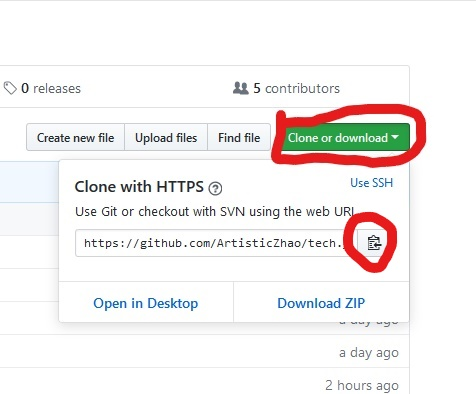
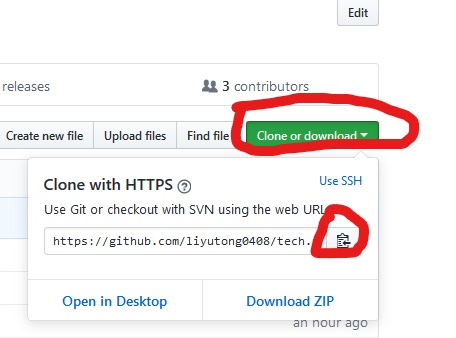
v2.7

diff --git a/git_book_use/gitbook_use.md b/git_book_use/gitbook_use.md
@@ -18,7 +18,7 @@ git init
 
 ![](https://raw.githubusercontent.com/liyutong0408/tech._dept._book/master/git_book_use/gitbook_use/01.png)  
 
-在fork成功之后点击“clone or download”，点击网址旁边的按钮来复制网址。
+在fork成功之后回到自己的GitHub上点击“clone or download”，点击网址旁边的按钮来复制网址。
 
 ![](https://raw.githubusercontent.com/liyutong0408/tech._dept._book/master/git_book_use/gitbook_use/02.png) 
  
